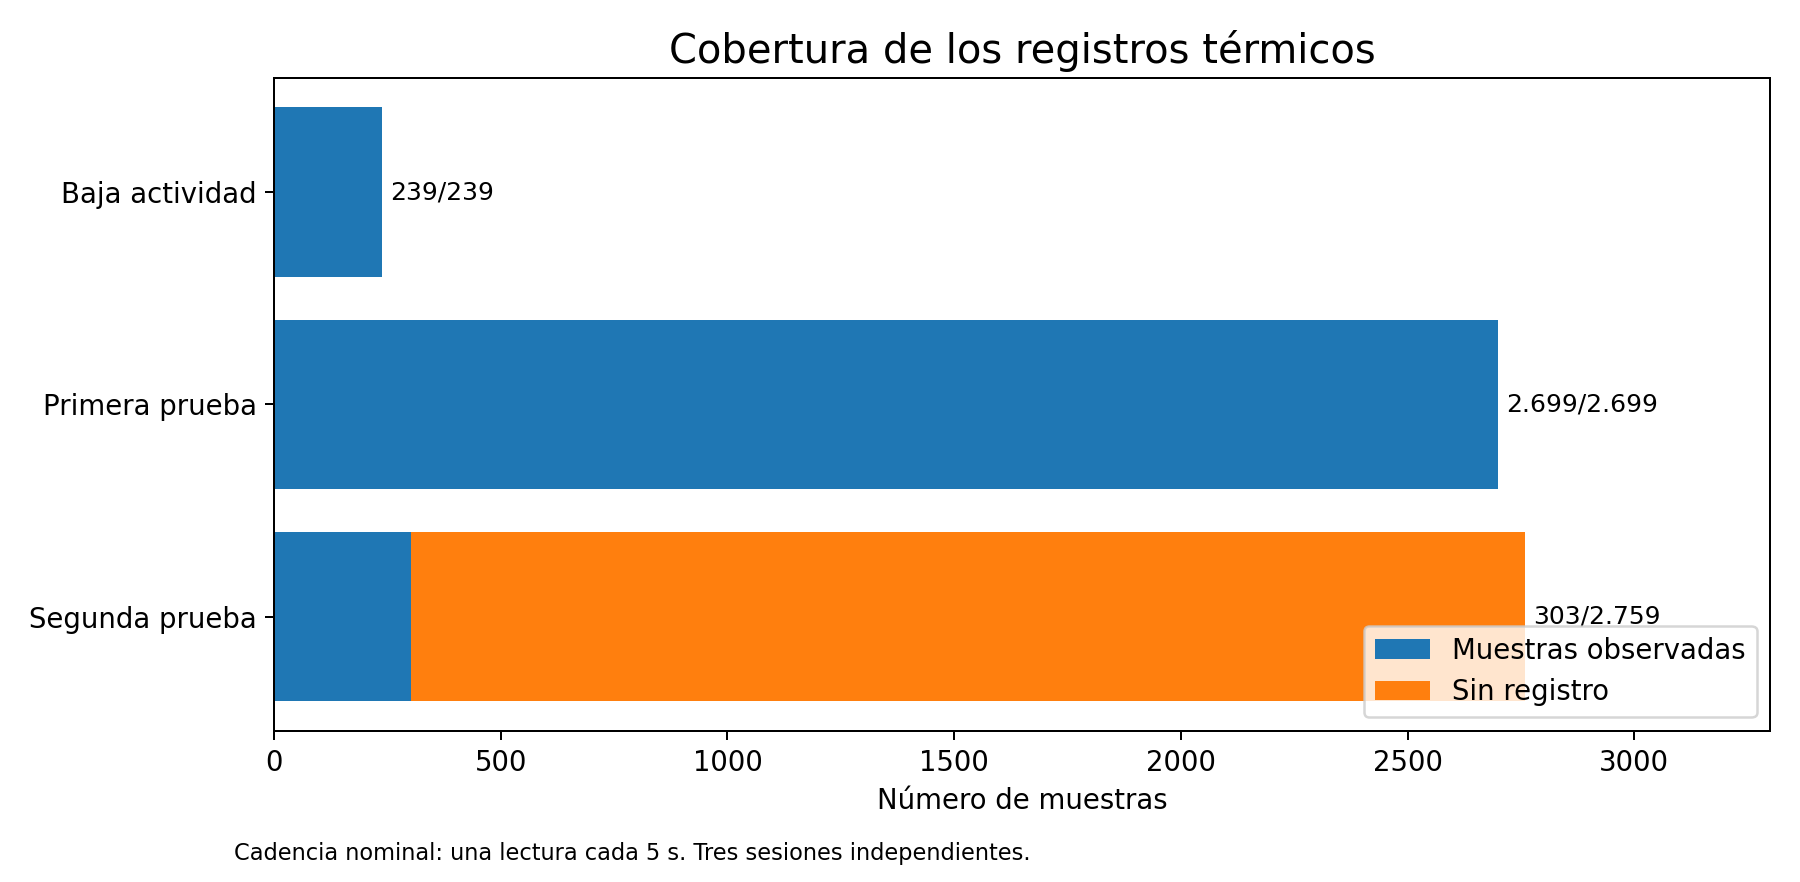
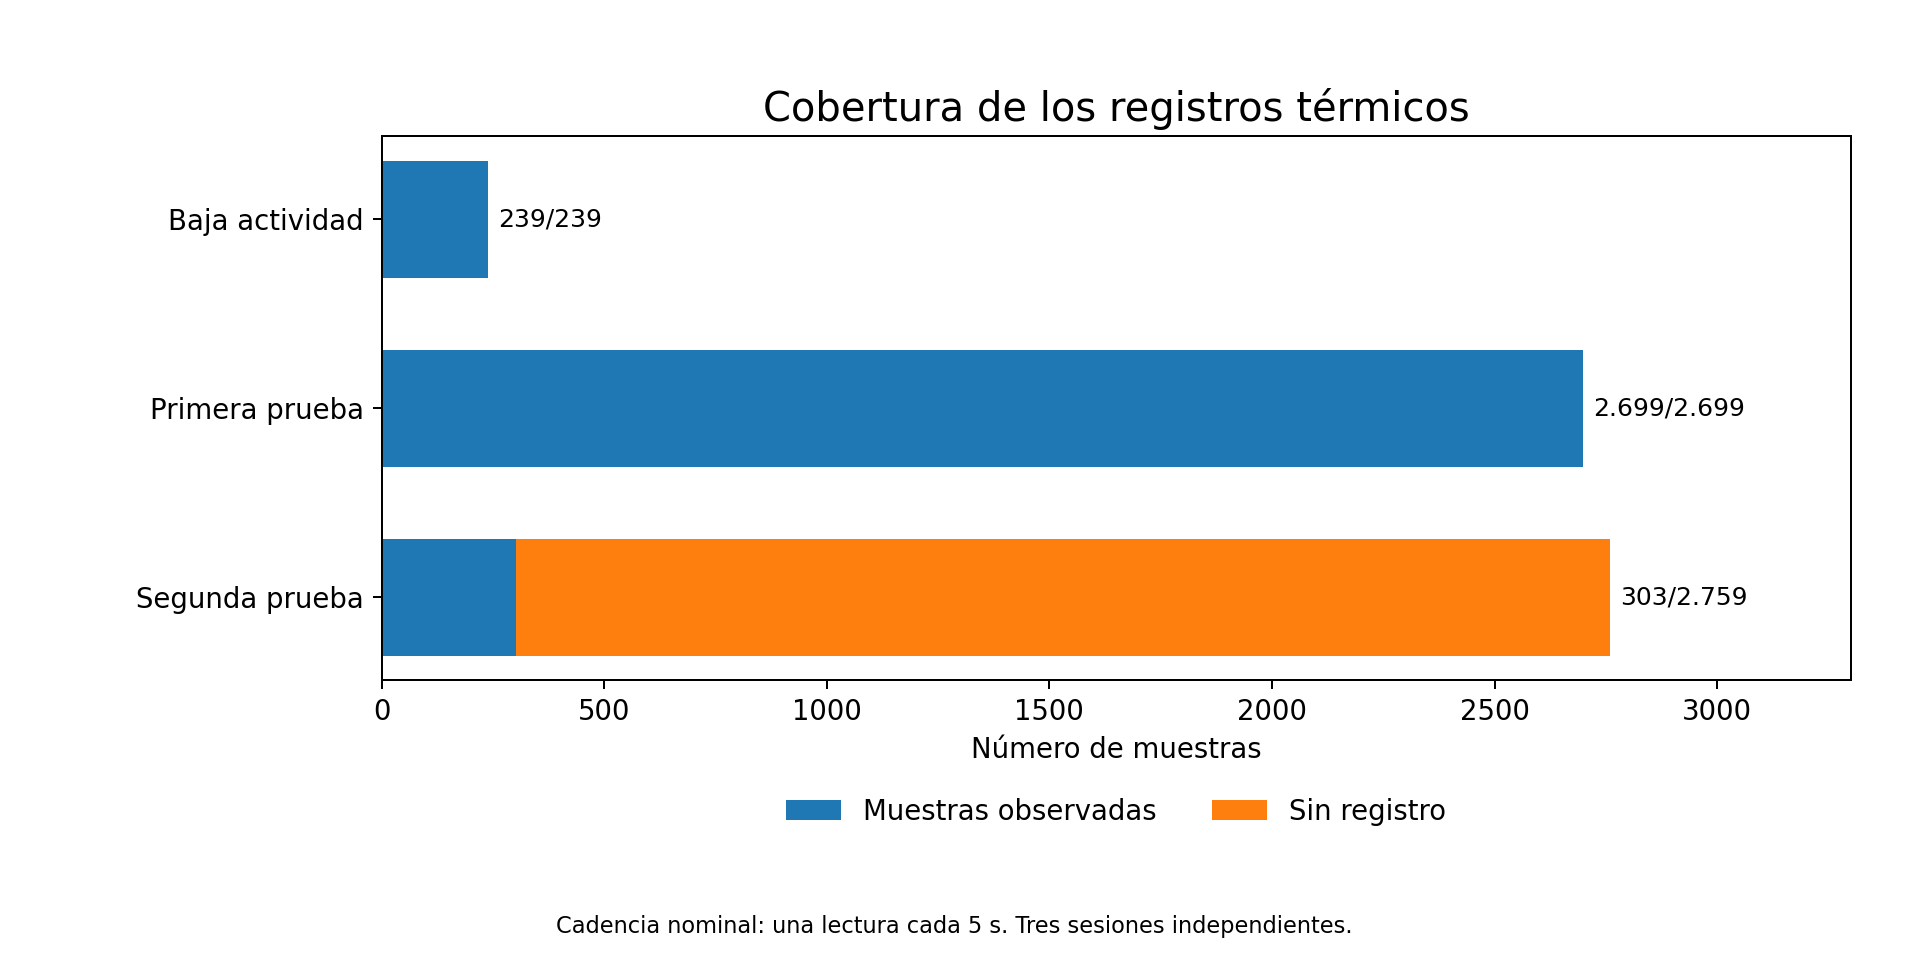
fix(pi-edge): correct current cooling photo, navigation and diagram layout

Changed region(s): [[0.0311, 0.0306, 0.9956, 0.9184], [0.1244, 0.949, 0.7156, 0.9796], [0.2489, 0.8265, 0.3111, 0.8878]]

diff --git a/experiments/raspberry-pi-edge-inference-thermal/scripts/plot_public_figures.py b/experiments/raspberry-pi-edge-inference-thermal/scripts/plot_public_figures.py
@@ -24,22 +24,44 @@ ax.barh(labels,vals);ax.invert_yaxis();ax.set_xlim(0,3.0);ax.set_xlabel('Miles d
 for i,v in enumerate(vals):ax.text(v+.03,i,f'{v:g} B',va='center',fontsize=10)
 fig.text(.1,.025,'Tamaños comerciales aproximados. No son consumo de RAM, velocidad ni temperatura.',fontsize=9)
 fig.tight_layout(rect=[0,.055,1,1]);fig.savefig(FIG/'modelos_parametros.png');plt.close(fig)
-# CPU inference diagram
-fig,ax=plt.subplots(figsize=(10,3.9));ax.axis('off')
-fig.text(.5,.89,'Cómo se ejecuta una respuesta sin GPU dedicada',ha='center',size=16)
-blocks=[(.05,'Pregunta\ndel usuario'),(.29,'Modelo cuantizado\nen memoria RAM'),(.56,'Cálculo con\nCPU ARM'),(.80,'Respuesta\ngenerada')]
-for x,t in blocks:
-    ax.text(x+.075,.47,t,transform=ax.transAxes,ha='center',va='center',bbox=dict(boxstyle='round,pad=.8',facecolor='white',edgecolor='black'),fontsize=10)
-for x in [.24,.51,.75]:ax.annotate('',xy=(x+.045,.47),xytext=(x,.47),xycoords='axes fraction',arrowprops={'arrowstyle':'->','lw':1.7})
-fig.text(.5,.15,'Cuantización = menos bits por peso · RAM, tiempo y calor siguen siendo restricciones.',ha='center',size=9)
+# CPU inference diagram: rectangle geometry and arrows deliberately in gaps only
+from matplotlib.patches import FancyBboxPatch
+fig, ax = plt.subplots(figsize=(11, 4.2))
+ax.set_xlim(0, 1); ax.set_ylim(0, 1); ax.axis('off')
+fig.text(.5, .91, 'Cómo se ejecuta una respuesta sin GPU dedicada', ha='center', fontsize=16)
+boxes = [
+  (.02, .16, 'Pregunta\ndel usuario'),
+  (.25, .26, 'Modelo cuantizado\nen memoria RAM'),
+  (.58, .17, 'Cálculo con\nCPU ARM'),
+  (.83, .15, 'Respuesta\ngenerada'),
+]
+for x, width, label in boxes:
+    ax.add_patch(FancyBboxPatch((x,.43),width,.22,boxstyle='round,pad=0.008,rounding_size=0.025',
+        transform=ax.transAxes,facecolor='white',edgecolor='black',linewidth=1.3))
+    ax.text(x+width/2,.54,label,transform=ax.transAxes,va='center',ha='center',fontsize=10)
+for left,right in zip(boxes[:-1],boxes[1:]):
+    xa=left[0]+left[1]+.012; xb=right[0]-.012
+    assert xb>xa, 'Arrows must fit entirely between rectangles'
+    ax.annotate('',xy=(xb,.54),xytext=(xa,.54),xycoords=ax.transAxes,
+        arrowprops={'arrowstyle':'->','lw':1.8,'mutation_scale':15})
+fig.text(.5,.15,'Cuantización = menos bits por peso · RAM, tiempo y calor siguen siendo restricciones.',ha='center',fontsize=9)
 fig.savefig(FIG/'inferencia_cpu.png',bbox_inches='tight');plt.close(fig)
-# coverage three different sessions, no fake therm series
+# coverage three different sessions, no fake thermal series.
+# Legend is BELOW the axes; this avoids obscuring the longest bar on desktop or mobile.
 counts=[('Baja actividad',239,239),('Primera prueba',2699,2699),('Segunda prueba',303,2759)]
-fig,ax=plt.subplots(figsize=(10,4.9));x=np.arange(3);obs=[a[1] for a in counts]; missing=[a[2]-a[1] for a in counts]
-ax.barh(x,obs,label='Muestras observadas');ax.barh(x,missing,left=obs,label='Sin registro');ax.invert_yaxis();ax.set_yticks(x,[a[0] for a in counts]);ax.set_xlabel('Número de muestras');ax.set_title('Cobertura de los registros térmicos')
-for i,(n,o,p) in enumerate(counts):ax.text(p+18,i,f'{o:,}/{p:,}'.replace(',','.'),va='center',fontsize=10)
-ax.set_xlim(0,3300);ax.legend(loc='lower right');fig.text(.13,.025,'Cadencia nominal: una lectura cada 5 s. Tres sesiones independientes.',fontsize=9)
-fig.tight_layout(rect=[0,.045,1,1]);fig.savefig(FIG/'cobertura_registros.png');plt.close(fig)
+fig,ax=plt.subplots(figsize=(10.6,5.4))
+x=np.arange(3); obs=[a[1] for a in counts]; missing=[a[2]-a[1] for a in counts]
+ax.barh(x,obs,label='Muestras observadas',height=.62)
+ax.barh(x,missing,left=obs,label='Sin registro',height=.62)
+ax.invert_yaxis();ax.set_yticks(x,[a[0] for a in counts]);ax.set_xlabel('Número de muestras')
+ax.set_title('Cobertura de los registros térmicos')
+for i,(_,o,total) in enumerate(counts):
+    ax.text(total+22,i,f'{o:,}/{total:,}'.replace(',','.'),va='center',fontsize=10)
+ax.set_xlim(0,3300)
+fig.subplots_adjust(left=.20,right=.97,top=.86,bottom=.30)
+ax.legend(loc='upper center',bbox_to_anchor=(.5,-.17),ncol=2,frameon=False)
+fig.text(.5,.04,'Cadencia nominal: una lectura cada 5 s. Tres sesiones independientes.',ha='center',fontsize=9)
+fig.savefig(FIG/'cobertura_registros.png');plt.close(fig)
 # first thermal points; no interpolating
 fig,ax=plt.subplots(figsize=(9.6,4.8));ax.scatter([0,10],[33.589,27.745],s=90,marker='o')
 ax.set_xlim(-1.2,11.5);ax.set_ylim(25,36);ax.set_xticks([0,10],['Fin de la carga','~10 min después']);ax.set_ylabel('Temperatura (°C)');ax.set_title('Recuperación: dos lecturas, no una curva reconstruida');ax.grid(alpha=.25)
@@ -47,11 +69,18 @@ for x,y in [(0,33.589),(10,27.745)]:ax.annotate(f'{y:.2f} °C',(x,y),xytext=(0,1
 fig.text(.11,.018,'Lecturas comunicadas de la primera prueba. No se representa la trayectoria entre ambas.',fontsize=9)
 fig.tight_layout(rect=[0,.05,1,1]);fig.savefig(FIG/'recuperacion_dos_puntos.png');plt.close(fig)
 # second comparison observed peak types, not max by model
-fig,ax=plt.subplots(figsize=(9.6,4.8));vals=[38.946,37.97,37.48];cats=['Registro cada 5 s\nmáximo','Controles de esa fase\nmáximo','Control posterior\npuntual'];ax.scatter(list(range(3)),vals,s=190);ax.set_xticks(list(range(3)),cats)
-ax.axhline(38.5,ls='--',label='Umbral experimental 38,5 °C');ax.set_ylim(34,40);ax.set_ylabel('Temperatura (°C)');ax.set_title('Segunda prueba: distintos instrumentos e instantes');ax.grid(axis='y',alpha=.25)
-for i,v in enumerate(vals):ax.text(i,v+.12,f'{v:.2f} °C',ha='center')
-ax.legend(loc='lower left');fig.text(.1,.02,'Puntos con distinto alcance temporal: no corresponden a tres modelos comparables.',fontsize=9)
-fig.tight_layout(rect=[0,.055,1,1]);fig.savefig(FIG/'segunda_prueba_registros.png');plt.close(fig)
+fig,ax=plt.subplots(figsize=(9.8,5.0));vals=[38.946,37.97,37.48]
+cats=['Registro cada 5 s\nmáximo','Controles de esa fase\nmáximo','Control posterior\npuntual']
+ax.scatter(list(range(3)),vals,s=190)
+ax.set_xticks(list(range(3)),cats)
+ax.axhline(38.5,ls='--',label='Umbral experimental 38,5 °C')
+ax.set_ylim(34,40);ax.set_ylabel('Temperatura (°C)')
+ax.set_title('Segunda prueba: distintos instrumentos e instantes');ax.grid(axis='y',alpha=.25)
+for i,v in enumerate(vals):ax.text(i,v+.14,f'{v:.2f} °C',ha='center')
+fig.subplots_adjust(left=.10,right=.95,top=.85,bottom=.36)
+ax.legend(loc='upper center',bbox_to_anchor=(.5,-.31),ncol=1,frameon=False)
+fig.text(.5,.025,'Puntos con distinto alcance temporal: no corresponden a tres modelos comparables.',ha='center',fontsize=9)
+fig.savefig(FIG/'segunda_prueba_registros.png');plt.close(fig)
 # maxima by session but show noncausal, use dot plot no model label
 fig,ax=plt.subplots(figsize=(9.6,4.8));ys=[37.972,38.946];x=[0,1];ax.scatter(x,ys,s=170)
 for xx,yy in zip(x,ys):ax.annotate(f'{yy:.3f} °C',(xx,yy),xytext=(0,13),textcoords='offset points',ha='center')

diff --git a/experiments/raspberry-pi-edge-inference-thermal/README.md b/experiments/raspberry-pi-edge-inference-thermal/README.md
@@ -6,9 +6,9 @@
 
 Una Raspberry Pi 4B puede ejecutar modelos de lenguaje localmente sin una GPU dedicada. Pero, ¿cómo responde su temperatura cuando se mantiene trabajando durante horas? Para averiguarlo registramos la temperatura durante tres observaciones: una con baja actividad y dos con cargas de inferencia de distinta duración.
 
-![Carcasa de Raspberry Pi 4 junto a un montaje artesanal Noctua](figures/raspberry-pi-noctua-historico-2020.jpg)
+![Montaje 2026 de la Raspberry Pi con el sistema de refrigeración de la campaña actual](figures/raspberry-pi-cooling-2026.jpg)
 
-*Fotografía histórica del proyecto de refrigeración Noctua, tomada en **2020**. Muestra la familia de hardware utilizada en la serie, **no** acredita que ese ventilador estuviera instalado durante las pruebas de inferencia de 2026.*
+*Fotografía de octubre de **2026**: Raspberry Pi 4B en su carcasa, con disipadores y cableado de refrigeración visibles. Pertenece a la etapa de trabajo actual, pero no permite acreditar por sí sola la configuración exacta de ventilación durante cada medición térmica.*
 
 ## Lee la serie
 
@@ -30,3 +30,5 @@ Una Raspberry Pi 4B puede ejecutar modelos de lenguaje localmente sin una GPU de
 Continuamos la investigación sobre refrigeración y ruido iniciada en [Raspberry Pi 4 + Noctua: montaje, alimentación y acústica](../raspberry-pi-noctua-phase1/README.md). **No asumimos que la configuración de ventilación de aquellas fotografías de 2020 estuviera presente en las sesiones térmicas actuales.**
 
 **Alcance de la publicación:** análisis exploratorio, no benchmark controlado. Los tres resúmenes de telemetría están disponibles, pero los CSV originales y los eventos de aplicación todavía no han podido verificarse por SHA-256 en esta preparación; por ello las figuras no simulan una curva continua cuando faltan sus muestras.
+
+[Siguiente: hardware y modelos →](01-hardware-modelos.md)
